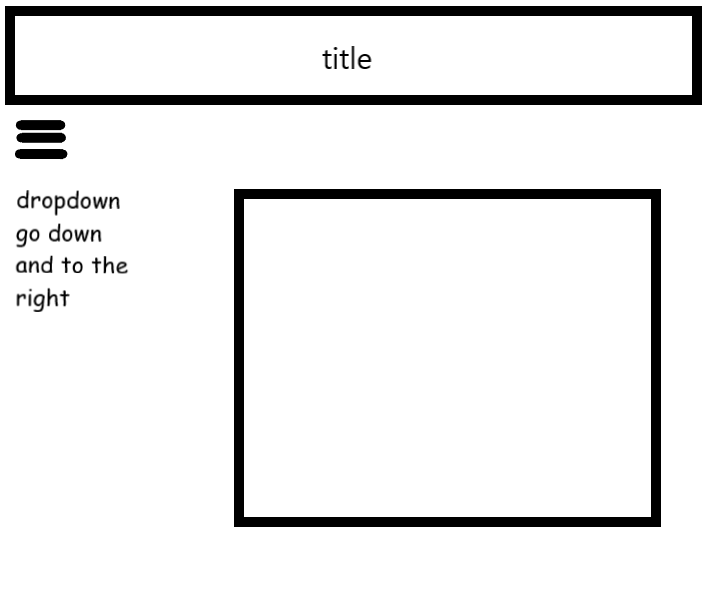
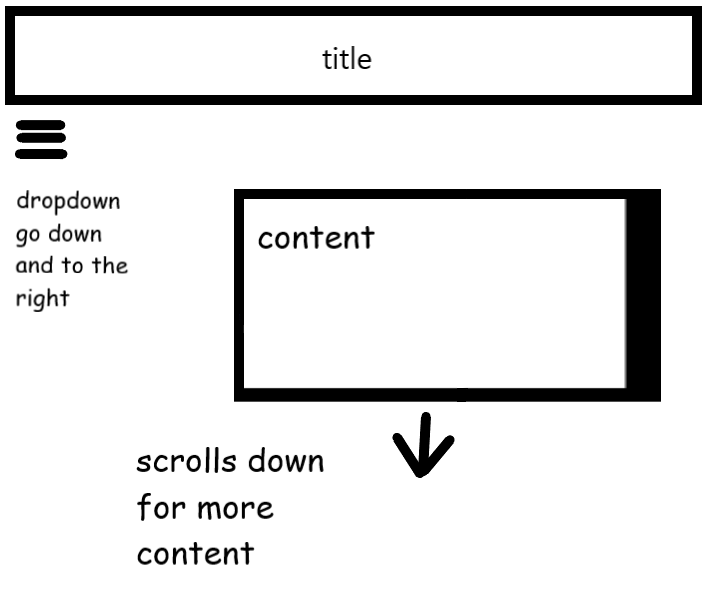
my vs code crashed

Changed region(s): [[0.1859, 0.3306, 0.9296, 0.9616], [0.3408, 0.3606, 0.5268, 0.4207]]

diff --git a/index.html b/index.html
@@ -6,18 +6,21 @@
 
 </head>
 <body>
+    <h1 class="title">
+        probably a title or somthing
+    </h1>
 <header>
-    <h1>insert title here</h1>
+    <h1>probably 3 horizontal lines</h1>
 </header>
 <dvi class="dropdown">
     <button class="">
         <div class="drop-con">
-            <a href=".html">home</a>
-            <a href=".html"></a>
-            <a href=".html"></a>
-            <a href=".html"></a>
-            <a href=".html"></a>
-            <a href=".html"></a>
+            <a href=".html">Home</a>
+            <a href=".html">About me</a>
+            <a href=".html">Resume</a>
+            <a href=".html">Skills and training</a>
+            <a href=".html">Qualifications</a>
+            <a href=".html">Projects</a>
             <a href=".html"></a>
             <a href=".html"></a>
         </div>

diff --git a/css/index.css b/css/index.css
@@ -1,8 +1,36 @@
-.dropdown{}
+@font-face{
+    font-family: ;
+}
 
-button>
 
-.drop-con
+body{
+    color: black;
+}
+.dropdown{
+    background: black;
+    position: relative;
+    display: inline-block;
+
+}
+
+button{
+    background: black;
+    color: white;
+    font-family: ;
+}
+
+.drop-con{
+    visibility: hidden;
+    display: none;
+    position: fixed;
+    box-shadow: 0px 6px 18px 0px black;
+
+}
+.dropdown>button:hover {
+    display: inline-block;
+    visibility: visible;
+    
+}
 
 
 .dropdown:hover .drop-con{
